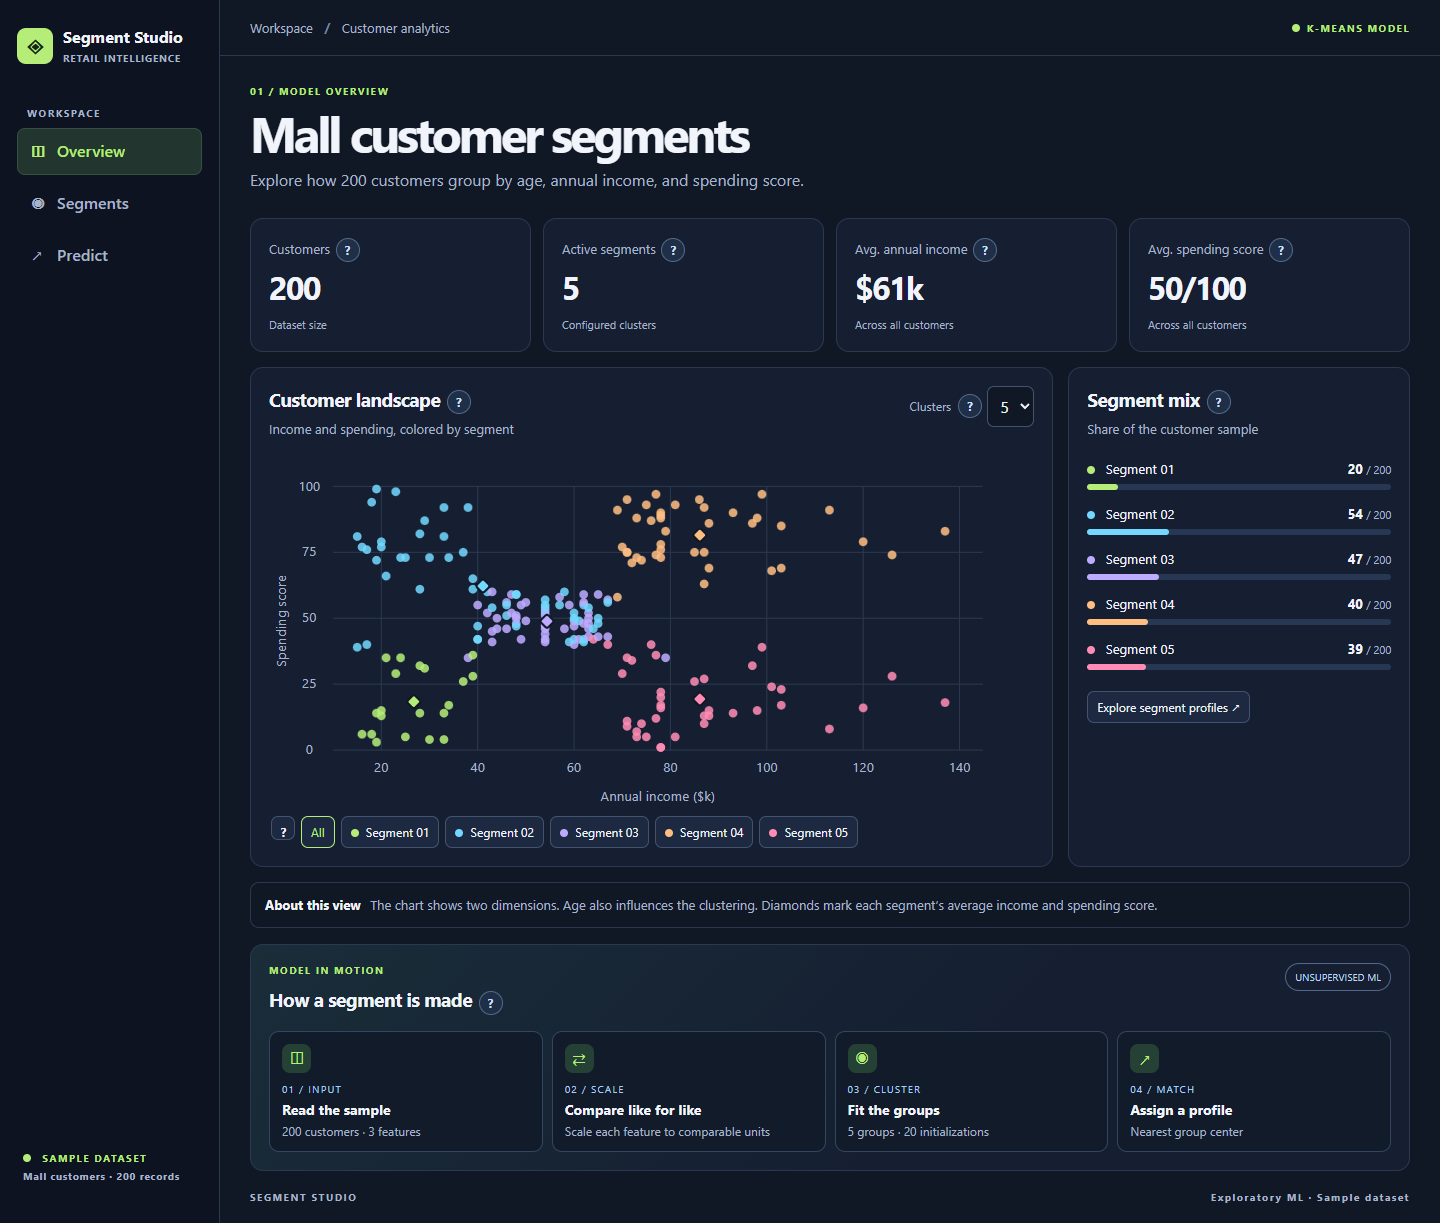
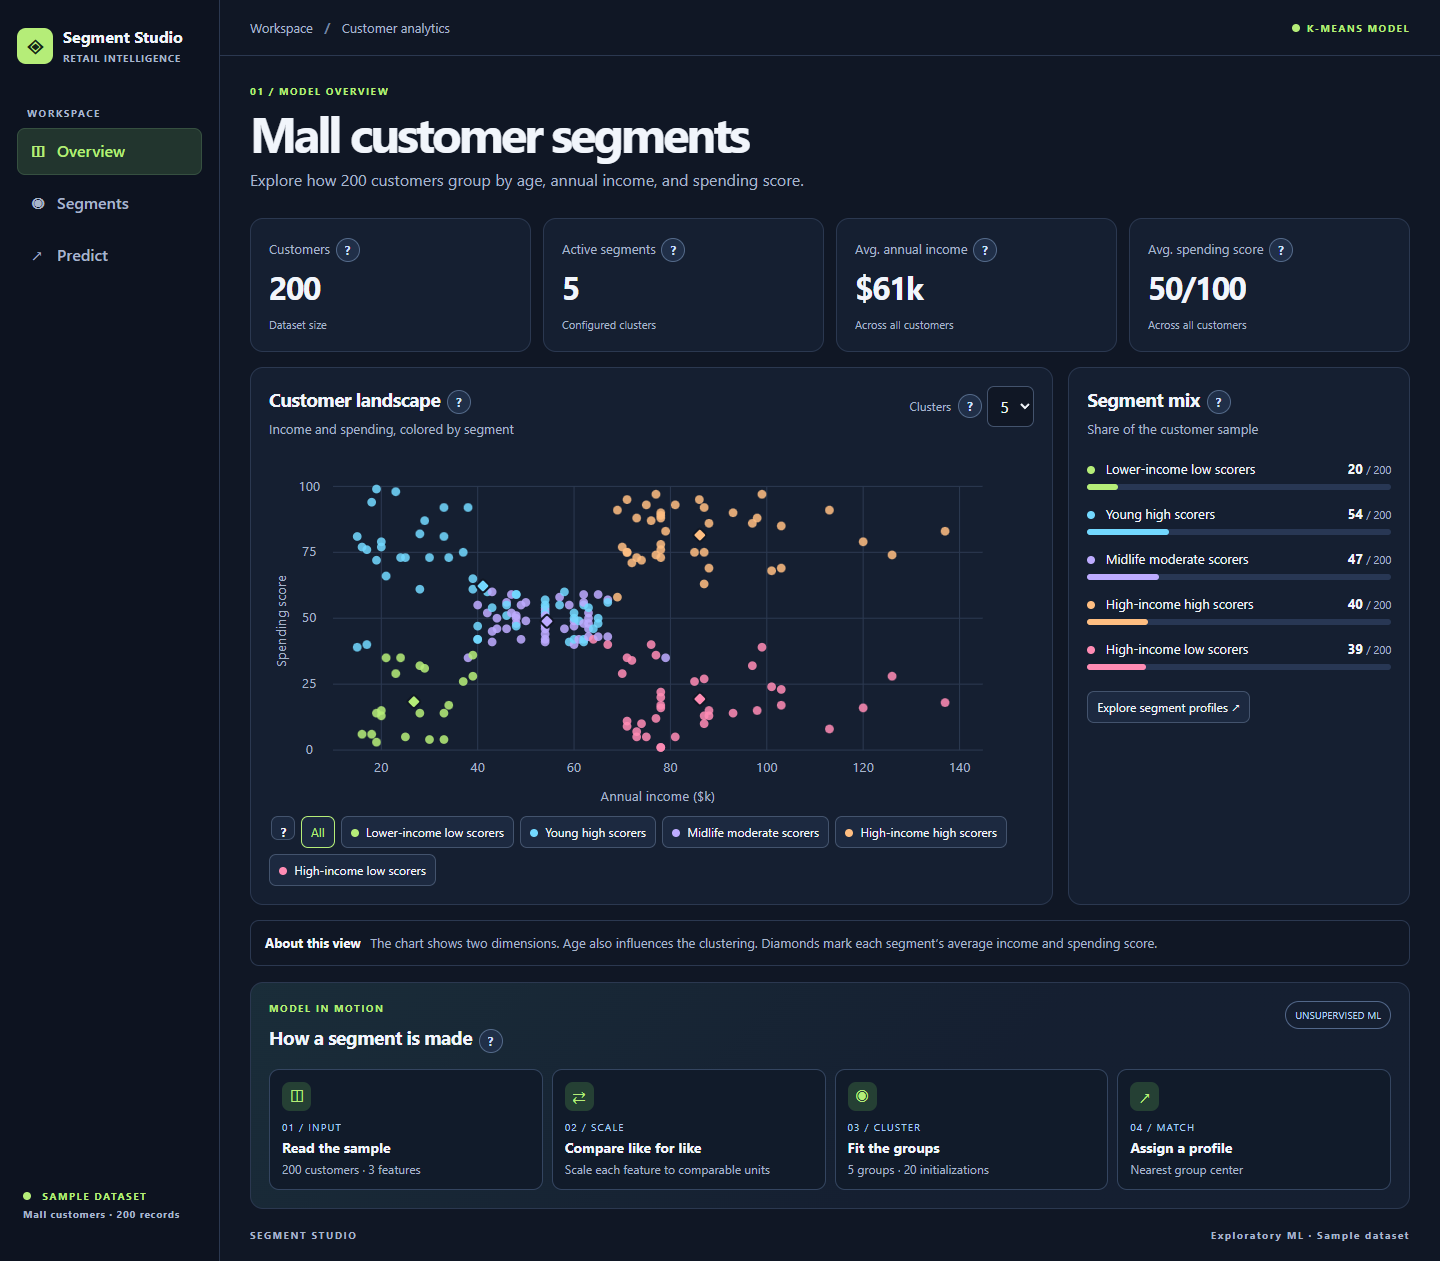
Name customer segments by their profiles

diff --git a/src/app.js b/src/app.js
@@ -1,3 +1,4 @@
+import {segmentName} from './segment-name.js';
 import './style.css';
 import {help} from './help.js';
 import csv from '../archive/Mall_Customers.csv?raw';
@@ -7,7 +8,6 @@ const colors=['#b5ed78','#72d8ff','#bdabff','#ffbe81','#ff8cb4','#76e2c4','#e7db
 const names=['Overview','Segments','Predict'];
 let model=fit(rows,5),active='Overview',filter=null;
 const fmt=n=>Math.round(n).toLocaleString('en-US');
-const label=i=>String(i+1).padStart(2,'0');
 const root=document.querySelector('#app');
 const avg=key=>fmt(rows.reduce((a,r)=>a+r[key],0)/rows.length);
 root.innerHTML=`<aside><div class="brand"><span class="mark">◈</span><div>Segment Studio<small>RETAIL INTELLIGENCE</small></div></div><div class="nav-title">WORKSPACE</div><nav aria-label="Workspace">${names.map((n,i)=>`<button data-tab="${n}"><span aria-hidden="true">${['◫','◉','↗'][i]}</span>${n}</button>`).join('')}</nav><div class="aside-foot"><i></i> SAMPLE DATASET<small>Mall customers · 200 records</small></div></aside><main><header><div>Workspace <b>/</b> Customer analytics</div><span><i></i> K-MEANS MODEL</span></header><div id="view"></div><footer>SEGMENT STUDIO <span>Exploratory ML · Sample dataset</span></footer></main><dialog id="help-dialog" aria-labelledby="help-title" aria-describedby="help-text"><div class="eyebrow">SEGMENT STUDIO / FIELD GUIDE</div><h2 id="help-title"></h2><p id="help-text"></p><form method="dialog"><button class="primary" autofocus>Got it</button></form></dialog>`;
@@ -26,10 +26,10 @@ function scatter(){
   return `<svg class="scatter" viewBox="0 0 740 360" role="img" aria-label="Customer scatter plot: annual income versus spending score"><g class="grid">${[0,25,50,75,100].map(v=>line(62,y(v),690,y(v))).join('')}${[20,40,60,80,100,120,140].map(v=>line(x(v),41,x(v),296)).join('')}</g><g class="ticks">${[0,25,50,75,100].map(v=>ticks(v,39,y(v)+4)).join('')}${[20,40,60,80,100,120,140].map(v=>ticks(v,x(v),317)).join('')}${ticks('Annual income ($k)',376,345)}<text transform="translate(16 171) rotate(-90)">Spending score</text></g><g>${model.customers.map(r=>`<circle cx="${x(r.income)}" cy="${y(r.score)}" r="4.2" fill="${colors[r.segment]}" opacity="${filter===null||r.segment===filter?0.86:0.10}"/>`).join('')}${model.segments.map(s=>filter===null||s.i===filter?`<rect x="${x(s.center.income)-5}" y="${y(s.center.score)-5}" width="10" height="10" rx="2" fill="${colors[s.i]}" stroke="#101725" stroke-width="2" transform="rotate(45 ${x(s.center.income)} ${y(s.center.score)})"/>`:'').join('')}</g></svg>`;
 }
 function overview(){
-  return `${heading('01 / MODEL OVERVIEW','Mall customer segments','Explore how 200 customers group by age, annual income, and spending score.')}<div class="metrics">${[['Customers',rows.length,'Dataset size'],['Active segments',model.segments.length,'Configured clusters'],['Avg. annual income','$'+avg('income')+'k','Across all customers'],['Avg. spending score',avg('score')+'/100','Across all customers']].map(([a,b,c])=>`<div class="panel stat"><span>${a} ${hint(a)}</span><strong>${b}</strong><small>${c}</small></div>`).join('')}</div><div class="dashboard"><section class="panel chart"><div class="panel-head"><div><h2>Customer landscape ${hint('Customer landscape')}</h2><p>Income and spending, colored by segment</p></div><div class="control"><label for="clusters">Clusters</label>${hint('Clusters')}<select id="clusters">${[2,3,4,5,6,7,8].map(k=>`<option ${k===model.segments.length?'selected':''}>${k}</option>`).join('')}</select></div></div><div id="plot">${scatter()}</div><div class="legend">${hint('Segment filter')}<button aria-pressed="${filter===null}" data-filter="all">All</button>${model.segments.map(s=>`<button aria-pressed="${filter===s.i}" data-filter="${s.i}">${chip(s.i)} Segment ${label(s.i)}</button>`).join('')}</div></section><section class="panel breakdown"><h2>Segment mix ${hint('Segment mix')}</h2><p>Share of the customer sample</p><div class="bars">${model.segments.map(s=>`<div><div class="bar-label"><span>${chip(s.i)} Segment ${label(s.i)}</span><b>${s.count} <small>/ ${rows.length}</small></b></div><div class="track"><div style="width:${s.count/rows.length*100}%;background:${colors[s.i]}"></div></div></div>`).join('')}</div><button class="secondary" data-tab="Segments">Explore segment profiles ↗</button></section></div><div class="note"><b>About this view</b> The chart shows two dimensions. Age also influences the clustering. Diamonds mark each segment’s average income and spending score.</div>${flow()}`;
+  return `${heading('01 / MODEL OVERVIEW','Mall customer segments','Explore how 200 customers group by age, annual income, and spending score.')}<div class="metrics">${[['Customers',rows.length,'Dataset size'],['Active segments',model.segments.length,'Configured clusters'],['Avg. annual income','$'+avg('income')+'k','Across all customers'],['Avg. spending score',avg('score')+'/100','Across all customers']].map(([a,b,c])=>`<div class="panel stat"><span>${a} ${hint(a)}</span><strong>${b}</strong><small>${c}</small></div>`).join('')}</div><div class="dashboard"><section class="panel chart"><div class="panel-head"><div><h2>Customer landscape ${hint('Customer landscape')}</h2><p>Income and spending, colored by segment</p></div><div class="control"><label for="clusters">Clusters</label>${hint('Clusters')}<select id="clusters">${[2,3,4,5,6,7,8].map(k=>`<option ${k===model.segments.length?'selected':''}>${k}</option>`).join('')}</select></div></div><div id="plot">${scatter()}</div><div class="legend">${hint('Segment filter')}<button aria-pressed="${filter===null}" data-filter="all">All</button>${model.segments.map(s=>`<button aria-pressed="${filter===s.i}" data-filter="${s.i}">${chip(s.i)} ${segmentName(s.center)}</button>`).join('')}</div></section><section class="panel breakdown"><h2>Segment mix ${hint('Segment mix')}</h2><p>Share of the customer sample</p><div class="bars">${model.segments.map(s=>`<div><div class="bar-label"><span>${chip(s.i)} ${segmentName(s.center)}</span><b>${s.count} <small>/ ${rows.length}</small></b></div><div class="track"><div style="width:${s.count/rows.length*100}%;background:${colors[s.i]}"></div></div></div>`).join('')}</div><button class="secondary" data-tab="Segments">Explore segment profiles ↗</button></section></div><div class="note"><b>About this view</b> The chart shows two dimensions. Age also influences the clustering. Diamonds mark each segment’s average income and spending score.</div>${flow()}`;
 }
 function profiles(){
-  return `${heading('02 / SEGMENT PROFILES','Compare your segments','Read each group’s size and centroid in the original customer units.')}<div class="profiles">${model.segments.map(s=>`<section class="panel profile"><div class="panel-head"><h2>${chip(s.i)} Segment ${label(s.i)} ${hint('Segment profile')}</h2><span>${(s.count/rows.length*100).toFixed(1)}% of sample ${hint('Sample share')}</span></div><strong>${s.count} <small>customers ${hint('Segment size')}</small></strong><dl><div><dt>Average age ${hint('Average age')}</dt><dd>${fmt(s.center.age)} years</dd></div><div><dt>Annual income ${hint('Annual income')}</dt><dd>$${fmt(s.center.income)}k</dd></div><div><dt>Spending score ${hint('Spending score')}</dt><dd>${fmt(s.center.score)}/100</dd></div></dl></section>`).join('')}</div><div class="note"><b>How to read these profiles</b> Segment numbers are ordered by average income and can change when you choose a different cluster count.</div>`;
+  return `${heading('02 / SEGMENT PROFILES','Compare your segments','Read each group’s size and centroid in the original customer units.')}<div class="profiles">${model.segments.map(s=>`<section class="panel profile"><div class="panel-head"><h2>${chip(s.i)} ${segmentName(s.center)} ${hint('Segment profile')}</h2><span>${(s.count/rows.length*100).toFixed(1)}% of sample ${hint('Sample share')}</span></div><strong>${s.count} <small>customers ${hint('Segment size')}</small></strong><dl><div><dt>Average age ${hint('Average age')}</dt><dd>${fmt(s.center.age)} years</dd></div><div><dt>Annual income ${hint('Annual income')}</dt><dd>$${fmt(s.center.income)}k</dd></div><div><dt>Spending score ${hint('Spending score')}</dt><dd>${fmt(s.center.score)}/100</dd></div></dl></section>`).join('')}</div><div class="note"><b>How to read these profiles</b> Names summarize each group’s average age, income, and spending score. Changing the cluster count can change the groups and their names.</div>`;
 }
 function predict(){
  return `${heading('03 / CUSTOMER ASSIGNMENT','Assign a customer','Enter a customer profile to find the nearest segment in the current model.')}<div class="prediction"><form class="panel" id="predict"><h2>Customer profile ${hint('Customer profile')}</h2><p>Using the current ${model.segments.length}-cluster model.</p><div class="field"><div><label for="age">Age (years)</label> ${hint('Age (years)')}</div><input id="age" name="age" type="number" min="0" max="120" step="1" required value="32"></div><div class="field"><div><label for="income">Annual income ($k)</label> ${hint('Annual income ($k)')}</div><input id="income" name="income" type="number" min="0" max="10000" step="any" required value="88"></div><div class="field"><div><label for="score">Spending score (1–100)</label> ${hint('Spending score (1–100)')}</div><input id="score" name="score" type="number" min="1" max="100" step="1" required value="78"></div><button class="primary" type="submit">Assign segment →</button></form><section class="panel result" aria-live="polite" id="result"><div class="mark">◈</div><h2>Assignment result ${hint('Assignment result')}</h2><p>Submit a customer profile to see its nearest segment and typical values.</p></section></div><div class="note"><b>Model scope</b> This demo uses a small sample. Inputs far outside the observed ranges may receive an assignment that is difficult to interpret.</div>`;
@@ -64,6 +64,6 @@ root.addEventListener('submit',event=>{
   event.preventDefault();
   const input=Object.fromEntries(Array.from(new FormData(event.target),([k,v])=>[k,Number(v)]));
   const s=model.predict(input), result=document.querySelector('#result');
-  result.innerHTML=`<div class="eyebrow">NEAREST SEGMENT</div><h2>${chip(s.i)} Segment ${label(s.i)} ${hint('Assignment result')}</h2><p>${s.count} of ${rows.length} sample customers · ${model.segments.length} clusters</p><dl><div><dt>Average age ${hint('Average age')}</dt><dd>${fmt(s.center.age)} years</dd></div><div><dt>Annual income ${hint('Annual income')}</dt><dd>$${fmt(s.center.income)}k</dd></div><div><dt>Spending score ${hint('Spending score')}</dt><dd>${fmt(s.center.score)}/100</dd></div></dl>`;
+  result.innerHTML=`<div class="eyebrow">NEAREST SEGMENT</div><h2>${chip(s.i)} ${segmentName(s.center)} ${hint('Assignment result')}</h2><p>${s.count} of ${rows.length} sample customers · ${model.segments.length} clusters</p><dl><div><dt>Average age ${hint('Average age')}</dt><dd>${fmt(s.center.age)} years</dd></div><div><dt>Annual income ${hint('Annual income')}</dt><dd>$${fmt(s.center.income)}k</dd></div><div><dt>Spending score ${hint('Spending score')}</dt><dd>${fmt(s.center.score)}/100</dd></div></dl>`;
 });
 show();

diff --git a/tests/product.spec.js b/tests/product.spec.js
@@ -9,7 +9,7 @@ test('overview lets users isolate segments and recompute cluster counts',async({
   await expect(page.getByRole('heading',{name:'Mall customer segments'})).toBeVisible();
   await expect(page.locator('#plot circle')).toHaveCount(200);
   await save(page,'01-overview');
-  const segment=page.getByRole('button',{name:'Segment 02',exact:true});
+  const segment=page.getByRole('button',{name:'Young high scorers',exact:true});
   await segment.click();
   await expect(segment).toHaveAttribute('aria-pressed','true');
   expect(await page.locator('#plot circle[opacity="0.1"]').count()).toBeGreaterThan(0);
@@ -35,7 +35,7 @@ test('profiles and assignment use the current model; invalid inputs are rejected
   await expect(page.getByRole('heading',{name:'Assignment result'})).toBeVisible();
   await page.getByRole('spinbutton',{name:'Spending score (1–100)'}).fill('78');
   await page.getByRole('button',{name:'Assign segment'}).click();
-  await expect(page.locator('#result h2')).toHaveText(/Segment 0[1-7]/);
+  await expect(page.locator('#result h2')).toHaveText('High-income high scorers ?');
   await expect(page.locator('#result')).toContainText('7 clusters');
   await save(page,'05-customer-assignment');
 });
@@ -49,7 +49,7 @@ test('mobile workspace fits the viewport and supports keyboard navigation',async
   await page.keyboard.press('Enter');
   await expect(page.getByRole('heading',{name:'Assign a customer'})).toBeFocused();
   await page.getByRole('button',{name:'Assign segment'}).click();
-  await expect(page.locator('#result h2')).toHaveText(/Segment 0[1-5]/);
+  await expect(page.locator('#result h2')).toHaveText('High-income high scorers ?');
   await save(page,'07-mobile-assignment');
 });
 test('field guide explains ranges and returns focus; infographic reflects current model',async({page})=>{

diff --git a/src/help.js b/src/help.js
@@ -7,7 +7,7 @@ export const help = {
   'Clusters': 'Choose an integer from 2 to 8. Changing this value refits the model and resets the chart filter. More clusters split the same 200 records into smaller groups.',
   'Segment filter': 'Select a segment to dim other dots, or select All to restore the full view. The filter does not change the model, totals, or segment mix.',
   'Segment mix': 'Each bar is a segment’s count divided by 200. Counts across segments total 200, and the shares total 100%.',
-  'Segment profile': 'The segment number is a display label ordered by average income. Colors connect the chart, mix, profiles, and assignment. A different cluster count can change both membership and numbering.',
+  'Segment profile': 'The name describes the group’s average age, income, or spending score. Scores below 35 are low and scores of 60 or above are high. Average incomes below $35k are lower and those of $75k or above are high. Changing the cluster count can change the names and who belongs to each group.',
   'Sample share': 'Customers in this segment divided by all 200 sample customers. Displayed shares are rounded to one decimal place.',
   'Segment size': 'Number of customers assigned to this segment. Every sample customer belongs to exactly one segment.',
   'Average age': 'Mean age of the selected group, shown in years. Observed sample ages range from 18 to 70.',

diff --git a/src/segment-name.js b/src/segment-name.js
@@ -1,0 +1,20 @@
+export function segmentName({age, income, score}) {
+  // These labels summarize sample centroids using fixed, descriptive bands.
+  if (income >= 75) {
+    if (score >= 60) return 'High-income high scorers';
+    if (score < 35) {
+      return age < 35 ? 'Younger high-income low scorers' : 'High-income low scorers';
+    }
+    return 'High-income moderate scorers';
+  }
+  if (income < 35) {
+    if (score >= 60) return 'Lower-income high scorers';
+    if (score < 35) return 'Lower-income low scorers';
+    return 'Lower-income moderate scorers';
+  }
+  if (score >= 60) return age < 35 ? 'Young high scorers' : 'Mid-income high scorers';
+  if (score < 35) return 'Mid-income low scorers';
+  if (age < 35) return 'Young moderate scorers';
+  if (age >= 60) return 'Older moderate scorers';
+  return 'Midlife moderate scorers';
+}

diff --git a/README.md b/README.md
@@ -40,7 +40,7 @@ The [bundled CSV](archive/Mall_Customers.csv) contains 200 customer rows. The or
 | CustomerID | 200 unique identifiers | Record identity only |
 | Genre | Categorical field in the source CSV | Excluded |
 
-The model standardizes the three features, fits K-Means with 20 seeded initializations per candidate fit, and assigns each record to the nearest centroid in standardized space. Segment numbers are ordered by centroid income and can change when the cluster count changes. Five is an exploratory starting point. The notebook also compares inertia and silhouette scores across 2–8 clusters. The browser and scikit-learn use different initializers; exact assignments can differ.
+The model standardizes the three features, fits K-Means with 20 seeded initializations per candidate fit, and assigns each record to the nearest centroid in standardized space. The dashboard uses descriptive names based on centroid age, income, and spending score. For example, the five-cluster view includes Young high scorers and High-income low scorers. Names can change when the cluster count changes. Five is an exploratory starting point. The notebook also compares inertia and silhouette scores across 2–8 clusters. The browser and scikit-learn use different initializers; exact assignments can differ.
 
 This small sample supports exploration. An assignment does not express confidence or validate a business segment, especially for inputs outside the observed ranges.
 
